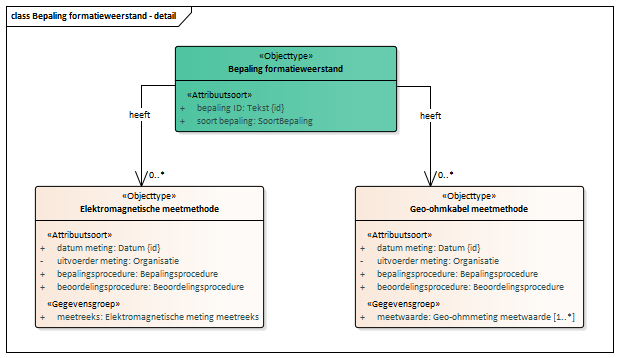
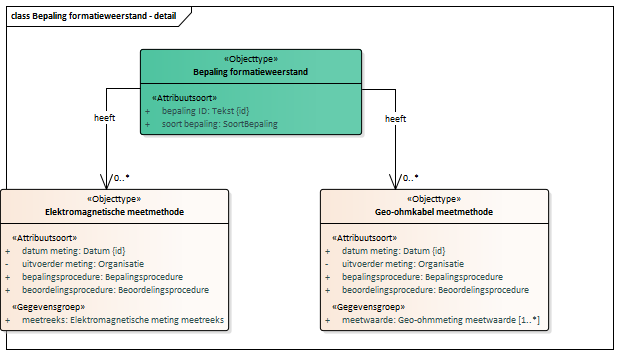
Conceptualmodel-FormatieweerstandonderzoekFRDconceptueel-0.92-3-20210125-20210804-093837

diff --git a/data/FRD-cat.msword.html b/data/FRD-cat.msword.html
@@ -15,7 +15,7 @@
    <body>
       <p>Conceptual model/Formatieweerstand onderzoek (FRD) conceptueel/20210125</p>
       <p>Imvertor: 1.64.2</p>
-      <p>Model release: Conceptualmodel-FormatieweerstandonderzoekFRDconceptueel-0.92-3-20210125-20210527-145838</p>
+      <p>Model release: Conceptualmodel-FormatieweerstandonderzoekFRDconceptueel-0.92-3-20210125-20210804-093837</p>
       <hr>
       <section>
          <h1>Artikel 1 Definitie van registratieobject, entiteiten en attributen</h1>
@@ -434,7 +434,7 @@
                            </tr>
                         </tbody>
                      </table>
-                     </section><a class="anchor" id="detail_d34696e2112"></a><section id="detail_d34696e2112">
+                     </section><a class="anchor" id="detail_d38132e2112"></a><section id="detail_d38132e2112">
                      <h4>  registratiegeschiedenis</h4>
                      <table style="width: 100%;">
                         <colgroup style="width: 30%;"></colgroup>
@@ -1174,8 +1174,6 @@
                      </section>
                </section><a class="anchor" id="graph_EAID_F22A1965_7877_4d12_8285_EA3DA4CB5238"></a><a class="anchor" id="global_class_Model_Grondwatermonitoringnet"></a><section id="global_class_Model_Grondwatermonitoringnet">
                   <h3>   Grondwatermonitoringnet</h3>
-                  <div class="imageinfo "><img src="Images/EAID_35CC2729_4E55_4e03_B78A_D1D89328DE59.png" usemap="#imagemap-EAID_35CC2729_4E55_4e03_B78A_D1D89328DE59" alt="Diagram "><map name="imagemap-EAID_35CC2729_4E55_4e03_B78A_D1D89328DE59"><area shape="rect" alt="Grondwatermonitoringnet" coords="35,46,195,136" href="#graph_EAID_F22A1965_7877_4d12_8285_EA3DA4CB5238"></map><p><b></b></p>
-                  </div>
                   <table style="width: 100%;">
                      <colgroup style="width: 30%;"></colgroup>
                      <colgroup style="width: 70%;"></colgroup>
@@ -1247,8 +1245,6 @@
                      </section>
                </section><a class="anchor" id="graph_EAID_1B716A2C_DC08_4613_9F45_D71488A09E08"></a><a class="anchor" id="global_class_Model_GMWMonitoringbuis"></a><section id="global_class_Model_GMWMonitoringbuis">
                   <h3>   GMW-Monitoringbuis</h3>
-                  <div class="imageinfo "><img src="Images/EAID_1F06A053_05DF_4450_8FA9_BE6E16FC0EEB.png" usemap="#imagemap-EAID_1F06A053_05DF_4450_8FA9_BE6E16FC0EEB" alt="Diagram "><map name="imagemap-EAID_1F06A053_05DF_4450_8FA9_BE6E16FC0EEB"><area shape="rect" alt="GMW-Monitoringbuis" coords="35,46,181,136" href="#graph_EAID_1B716A2C_DC08_4613_9F45_D71488A09E08"></map><p><b></b></p>
-                  </div>
                   <table style="width: 100%;">
                      <colgroup style="width: 30%;"></colgroup>
                      <colgroup style="width: 70%;"></colgroup>
@@ -1360,7 +1356,7 @@
                      </section>
                </section><a class="anchor" id="graph_EAID_5F41557D_52D0_47ab_80F1_95DA32B6E627"></a><a class="anchor" id="global_class_Model_Bepalingformatieweerstand"></a><section id="global_class_Model_Bepalingformatieweerstand">
                   <h3>   Bepaling formatieweerstand</h3>
-                  <div class="imageinfo "><img src="Images/EAID_D43054A5_5649_44c1_88F3_A13D6778913E.png" usemap="#imagemap-EAID_D43054A5_5649_44c1_88F3_A13D6778913E" alt="Diagram "><map name="imagemap-EAID_D43054A5_5649_44c1_88F3_A13D6778913E"><area shape="rect" alt="Geo-ohmkabel meetmethode" coords="355,186,584,328" href="#graph_EAID_A60EAD51_0CA6_4820_8C8B_9C2C6DF62D79"><area shape="rect" alt="Elektromagnetische meetmethode" coords="35,186,264,328" href="#graph_EAID_01BA1718_0CA4_4f8d_B072_22583AA9ABF6"><area shape="rect" alt="Bepaling formatieweerstand" coords="175,46,397,132" href="#graph_EAID_5F41557D_52D0_47ab_80F1_95DA32B6E627"></map><p><b></b></p>
+                  <div class="imageinfo "><img src="Images/EAID_D43054A5_5649_44c1_88F3_A13D6778913E.png" usemap="#imagemap-EAID_D43054A5_5649_44c1_88F3_A13D6778913E" alt="Diagram "><map name="imagemap-EAID_D43054A5_5649_44c1_88F3_A13D6778913E"><area shape="rect" alt="Geo-ohmkabel meetmethode" coords="320,189,549,331" href="#graph_EAID_A60EAD51_0CA6_4820_8C8B_9C2C6DF62D79"><area shape="rect" alt="Elektromagnetische meetmethode" coords="0,189,229,331" href="#graph_EAID_01BA1718_0CA4_4f8d_B072_22583AA9ABF6"><area shape="rect" alt="Bepaling formatieweerstand" coords="140,49,362,135" href="#graph_EAID_5F41557D_52D0_47ab_80F1_95DA32B6E627"></map><p><b></b></p>
                   </div>
                   <table style="width: 100%;">
                      <colgroup style="width: 30%;"></colgroup>
@@ -1773,7 +1769,7 @@
                            </tr>
                         </tbody>
                      </table>
-                     </section><a class="anchor" id="detail_d34696e6813"></a><section id="detail_d34696e6813">
+                     </section><a class="anchor" id="detail_d38132e6813"></a><section id="detail_d38132e6813">
                      <h4>  meetreeks</h4>
                      <table style="width: 100%;">
                         <colgroup style="width: 30%;"></colgroup>
@@ -2389,8 +2385,6 @@
                      </section>
                </section><a class="anchor" id="graph_EAID_011990F7_6D1C_4330_B755_51026DABDD83"></a><a class="anchor" id="global_class_Model_Elektromagnetischemetingrecord"></a><section id="global_class_Model_Elektromagnetischemetingrecord">
                   <h3>   Elektromagnetische meting record</h3>
-                  <div class="imageinfo "><img src="Images/EAID_3DF72B87_FAA5_434d_A954_D00029F2E277.png" usemap="#imagemap-EAID_3DF72B87_FAA5_434d_A954_D00029F2E277" alt="Diagram "><map name="imagemap-EAID_3DF72B87_FAA5_434d_A954_D00029F2E277"><area shape="rect" alt="Elektromagnetische meting record" coords="35,46,239,148" href="#graph_EAID_011990F7_6D1C_4330_B755_51026DABDD83"></map><p><b></b></p>
-                  </div>
                   <table style="width: 100%;">
                      <colgroup style="width: 30%;"></colgroup>
                      <colgroup style="width: 70%;"></colgroup>
@@ -2598,7 +2592,7 @@
                               </td>
                         </tr>
                      </tbody>
-                  </table><a class="anchor" id="detail_d34696e9691"></a><section id="detail_d34696e9691">
+                  </table><a class="anchor" id="detail_d38132e9691"></a><section id="detail_d38132e9691">
                      <h4>  meetrecord</h4>
                      <table style="width: 100%;">
                         <colgroup style="width: 30%;"></colgroup>
@@ -2860,7 +2854,7 @@
                            </tr>
                         </tbody>
                      </table>
-                     </section><a class="anchor" id="detail_d34696e10777"></a><section id="detail_d34696e10777">
+                     </section><a class="anchor" id="detail_d38132e10777"></a><section id="detail_d38132e10777">
                      <h4>  meetwaarde</h4>
                      <table style="width: 100%;">
                         <colgroup style="width: 30%;"></colgroup>
@@ -3135,7 +3129,7 @@
                            </tr>
                         </tbody>
                      </table>
-                     </section><a class="anchor" id="detail_d34696e11673"></a><section id="detail_d34696e11673">
+                     </section><a class="anchor" id="detail_d38132e11673"></a><section id="detail_d38132e11673">
                      <h4>  meetpaar</h4>
                      <table style="width: 100%;">
                         <colgroup style="width: 30%;"></colgroup>
@@ -3175,7 +3169,7 @@
                            </tr>
                         </tbody>
                      </table>
-                  </section><a class="anchor" id="detail_d34696e11887"></a><section id="detail_d34696e11887">
+                  </section><a class="anchor" id="detail_d38132e11887"></a><section id="detail_d38132e11887">
                      <h4>  stroompaar</h4>
                      <table style="width: 100%;">
                         <colgroup style="width: 30%;"></colgroup>
@@ -3244,7 +3238,7 @@
                               </td>
                         </tr>
                      </tbody>
-                  </table><a class="anchor" id="detail_d34696e12259"></a><section id="detail_d34696e12259">
+                  </table><a class="anchor" id="detail_d38132e12259"></a><section id="detail_d38132e12259">
                      <h4>  elektrode1</h4>
                      <table style="width: 100%;">
                         <colgroup style="width: 30%;"></colgroup>
@@ -3284,7 +3278,7 @@
                            </tr>
                         </tbody>
                      </table>
-                  </section><a class="anchor" id="detail_d34696e12474"></a><section id="detail_d34696e12474">
+                  </section><a class="anchor" id="detail_d38132e12474"></a><section id="detail_d38132e12474">
                      <h4>  elektrode2</h4>
                      <table style="width: 100%;">
                         <colgroup style="width: 30%;"></colgroup>
@@ -3327,8 +3321,6 @@
                   </section>
                </section><a class="anchor" id="graph_EAID_C045DE56_83F7_4ff4_A46D_269994044500"></a><a class="anchor" id="global_class_Model_GMWelektrodeverwijzing"></a><section id="global_class_Model_GMWelektrodeverwijzing">
                   <h3>   GMW-elektrodeverwijzing</h3>
-                  <div class="imageinfo "><img src="Images/EAID_256930BF_3062_4e18_ACF2_5ACBC25A161C.png" usemap="#imagemap-EAID_256930BF_3062_4e18_ACF2_5ACBC25A161C" alt="Diagram "><map name="imagemap-EAID_256930BF_3062_4e18_ACF2_5ACBC25A161C"><area shape="rect" alt="Elektrodepaar" coords="35,46,230,136" href="#graph_EAID_328960A4_D17E_466f_B986_E3A06D0CD08C"></map><p><b></b></p>
-                  </div>
                   <table style="width: 100%;">
                      <colgroup style="width: 30%;"></colgroup>
                      <colgroup style="width: 70%;"></colgroup>
@@ -3761,7 +3753,7 @@
                            </tr>
                         </tbody>
                      </table>
-                     </section><a class="anchor" id="detail_d34696e14201"></a><section id="detail_d34696e14201">
+                     </section><a class="anchor" id="detail_d38132e14201"></a><section id="detail_d38132e14201">
                      <h4>  schijnbare formatieweerstand meetreeks</h4>
                      <table style="width: 100%;">
                         <colgroup style="width: 30%;"></colgroup>
@@ -3815,7 +3807,7 @@
                               </td>
                         </tr>
                      </tbody>
-                  </table><a class="anchor" id="detail_d34696e14491"></a><section id="detail_d34696e14491">
+                  </table><a class="anchor" id="detail_d38132e14491"></a><section id="detail_d38132e14491">
                      <h4>  meetrecord</h4>
                      <table style="width: 100%;">
                         <colgroup style="width: 30%;"></colgroup>

diff --git a/data/FRD-cat.respec.html b/data/FRD-cat.respec.html
@@ -410,7 +410,7 @@
                   </tr>
                </tbody>
             </table>
-            </section><a class="anchor" id="detail_d34696e2112"></a><section id="detail_d34696e2112">
+            </section><a class="anchor" id="detail_d38132e2112"></a><section id="detail_d38132e2112">
             <h4>  registratiegeschiedenis</h4>
             <table style="width: 100%;">
                <colgroup style="width: 30%;"></colgroup>
@@ -1150,8 +1150,6 @@
             </section>
       </section><a class="anchor" id="graph_EAID_F22A1965_7877_4d12_8285_EA3DA4CB5238"></a><a class="anchor" id="global_class_Model_Grondwatermonitoringnet"></a><section id="global_class_Model_Grondwatermonitoringnet">
          <h3>   Grondwatermonitoringnet</h3>
-         <div class="imageinfo "><img src="data/Images/EAID_35CC2729_4E55_4e03_B78A_D1D89328DE59.png" usemap="#imagemap-EAID_35CC2729_4E55_4e03_B78A_D1D89328DE59" alt="Diagram "><map name="imagemap-EAID_35CC2729_4E55_4e03_B78A_D1D89328DE59"><area shape="rect" alt="Grondwatermonitoringnet" coords="35,46,195,136" href="#graph_EAID_F22A1965_7877_4d12_8285_EA3DA4CB5238"></map><p><b></b></p>
-         </div>
          <table style="width: 100%;">
             <colgroup style="width: 30%;"></colgroup>
             <colgroup style="width: 70%;"></colgroup>
@@ -1223,8 +1221,6 @@
             </section>
       </section><a class="anchor" id="graph_EAID_1B716A2C_DC08_4613_9F45_D71488A09E08"></a><a class="anchor" id="global_class_Model_GMWMonitoringbuis"></a><section id="global_class_Model_GMWMonitoringbuis">
          <h3>   GMW-Monitoringbuis</h3>
-         <div class="imageinfo "><img src="data/Images/EAID_1F06A053_05DF_4450_8FA9_BE6E16FC0EEB.png" usemap="#imagemap-EAID_1F06A053_05DF_4450_8FA9_BE6E16FC0EEB" alt="Diagram "><map name="imagemap-EAID_1F06A053_05DF_4450_8FA9_BE6E16FC0EEB"><area shape="rect" alt="GMW-Monitoringbuis" coords="35,46,181,136" href="#graph_EAID_1B716A2C_DC08_4613_9F45_D71488A09E08"></map><p><b></b></p>
-         </div>
          <table style="width: 100%;">
             <colgroup style="width: 30%;"></colgroup>
             <colgroup style="width: 70%;"></colgroup>
@@ -1336,7 +1332,7 @@
             </section>
       </section><a class="anchor" id="graph_EAID_5F41557D_52D0_47ab_80F1_95DA32B6E627"></a><a class="anchor" id="global_class_Model_Bepalingformatieweerstand"></a><section id="global_class_Model_Bepalingformatieweerstand">
          <h3>   Bepaling formatieweerstand</h3>
-         <div class="imageinfo "><img src="data/Images/EAID_D43054A5_5649_44c1_88F3_A13D6778913E.png" usemap="#imagemap-EAID_D43054A5_5649_44c1_88F3_A13D6778913E" alt="Diagram "><map name="imagemap-EAID_D43054A5_5649_44c1_88F3_A13D6778913E"><area shape="rect" alt="Geo-ohmkabel meetmethode" coords="355,186,584,328" href="#graph_EAID_A60EAD51_0CA6_4820_8C8B_9C2C6DF62D79"><area shape="rect" alt="Elektromagnetische meetmethode" coords="35,186,264,328" href="#graph_EAID_01BA1718_0CA4_4f8d_B072_22583AA9ABF6"><area shape="rect" alt="Bepaling formatieweerstand" coords="175,46,397,132" href="#graph_EAID_5F41557D_52D0_47ab_80F1_95DA32B6E627"></map><p><b></b></p>
+         <div class="imageinfo "><img src="data/Images/EAID_D43054A5_5649_44c1_88F3_A13D6778913E.png" usemap="#imagemap-EAID_D43054A5_5649_44c1_88F3_A13D6778913E" alt="Diagram "><map name="imagemap-EAID_D43054A5_5649_44c1_88F3_A13D6778913E"><area shape="rect" alt="Geo-ohmkabel meetmethode" coords="320,189,549,331" href="#graph_EAID_A60EAD51_0CA6_4820_8C8B_9C2C6DF62D79"><area shape="rect" alt="Elektromagnetische meetmethode" coords="0,189,229,331" href="#graph_EAID_01BA1718_0CA4_4f8d_B072_22583AA9ABF6"><area shape="rect" alt="Bepaling formatieweerstand" coords="140,49,362,135" href="#graph_EAID_5F41557D_52D0_47ab_80F1_95DA32B6E627"></map><p><b></b></p>
          </div>
          <table style="width: 100%;">
             <colgroup style="width: 30%;"></colgroup>
@@ -1749,7 +1745,7 @@
                   </tr>
                </tbody>
             </table>
-            </section><a class="anchor" id="detail_d34696e6813"></a><section id="detail_d34696e6813">
+            </section><a class="anchor" id="detail_d38132e6813"></a><section id="detail_d38132e6813">
             <h4>  meetreeks</h4>
             <table style="width: 100%;">
                <colgroup style="width: 30%;"></colgroup>
@@ -2365,8 +2361,6 @@
             </section>
       </section><a class="anchor" id="graph_EAID_011990F7_6D1C_4330_B755_51026DABDD83"></a><a class="anchor" id="global_class_Model_Elektromagnetischemetingrecord"></a><section id="global_class_Model_Elektromagnetischemetingrecord">
          <h3>   Elektromagnetische meting record</h3>
-         <div class="imageinfo "><img src="data/Images/EAID_3DF72B87_FAA5_434d_A954_D00029F2E277.png" usemap="#imagemap-EAID_3DF72B87_FAA5_434d_A954_D00029F2E277" alt="Diagram "><map name="imagemap-EAID_3DF72B87_FAA5_434d_A954_D00029F2E277"><area shape="rect" alt="Elektromagnetische meting record" coords="35,46,239,148" href="#graph_EAID_011990F7_6D1C_4330_B755_51026DABDD83"></map><p><b></b></p>
-         </div>
          <table style="width: 100%;">
             <colgroup style="width: 30%;"></colgroup>
             <colgroup style="width: 70%;"></colgroup>
@@ -2574,7 +2568,7 @@
                      </td>
                </tr>
             </tbody>
-         </table><a class="anchor" id="detail_d34696e9691"></a><section id="detail_d34696e9691">
+         </table><a class="anchor" id="detail_d38132e9691"></a><section id="detail_d38132e9691">
             <h4>  meetrecord</h4>
             <table style="width: 100%;">
                <colgroup style="width: 30%;"></colgroup>
@@ -2836,7 +2830,7 @@
                   </tr>
                </tbody>
             </table>
-            </section><a class="anchor" id="detail_d34696e10777"></a><section id="detail_d34696e10777">
+            </section><a class="anchor" id="detail_d38132e10777"></a><section id="detail_d38132e10777">
             <h4>  meetwaarde</h4>
             <table style="width: 100%;">
                <colgroup style="width: 30%;"></colgroup>
@@ -3111,7 +3105,7 @@
                   </tr>
                </tbody>
             </table>
-            </section><a class="anchor" id="detail_d34696e11673"></a><section id="detail_d34696e11673">
+            </section><a class="anchor" id="detail_d38132e11673"></a><section id="detail_d38132e11673">
             <h4>  meetpaar</h4>
             <table style="width: 100%;">
                <colgroup style="width: 30%;"></colgroup>
@@ -3151,7 +3145,7 @@
                   </tr>
                </tbody>
             </table>
-         </section><a class="anchor" id="detail_d34696e11887"></a><section id="detail_d34696e11887">
+         </section><a class="anchor" id="detail_d38132e11887"></a><section id="detail_d38132e11887">
             <h4>  stroompaar</h4>
             <table style="width: 100%;">
                <colgroup style="width: 30%;"></colgroup>
@@ -3220,7 +3214,7 @@
                      </td>
                </tr>
             </tbody>
-         </table><a class="anchor" id="detail_d34696e12259"></a><section id="detail_d34696e12259">
+         </table><a class="anchor" id="detail_d38132e12259"></a><section id="detail_d38132e12259">
             <h4>  elektrode1</h4>
             <table style="width: 100%;">
                <colgroup style="width: 30%;"></colgroup>
@@ -3260,7 +3254,7 @@
                   </tr>
                </tbody>
             </table>
-         </section><a class="anchor" id="detail_d34696e12474"></a><section id="detail_d34696e12474">
+         </section><a class="anchor" id="detail_d38132e12474"></a><section id="detail_d38132e12474">
             <h4>  elektrode2</h4>
             <table style="width: 100%;">
                <colgroup style="width: 30%;"></colgroup>
@@ -3303,8 +3297,6 @@
          </section>
       </section><a class="anchor" id="graph_EAID_C045DE56_83F7_4ff4_A46D_269994044500"></a><a class="anchor" id="global_class_Model_GMWelektrodeverwijzing"></a><section id="global_class_Model_GMWelektrodeverwijzing">
          <h3>   GMW-elektrodeverwijzing</h3>
-         <div class="imageinfo "><img src="data/Images/EAID_256930BF_3062_4e18_ACF2_5ACBC25A161C.png" usemap="#imagemap-EAID_256930BF_3062_4e18_ACF2_5ACBC25A161C" alt="Diagram "><map name="imagemap-EAID_256930BF_3062_4e18_ACF2_5ACBC25A161C"><area shape="rect" alt="Elektrodepaar" coords="35,46,230,136" href="#graph_EAID_328960A4_D17E_466f_B986_E3A06D0CD08C"></map><p><b></b></p>
-         </div>
          <table style="width: 100%;">
             <colgroup style="width: 30%;"></colgroup>
             <colgroup style="width: 70%;"></colgroup>
@@ -3737,7 +3729,7 @@
                   </tr>
                </tbody>
             </table>
-            </section><a class="anchor" id="detail_d34696e14201"></a><section id="detail_d34696e14201">
+            </section><a class="anchor" id="detail_d38132e14201"></a><section id="detail_d38132e14201">
             <h4>  schijnbare formatieweerstand meetreeks</h4>
             <table style="width: 100%;">
                <colgroup style="width: 30%;"></colgroup>
@@ -3791,7 +3783,7 @@
                      </td>
                </tr>
             </tbody>
-         </table><a class="anchor" id="detail_d34696e14491"></a><section id="detail_d34696e14491">
+         </table><a class="anchor" id="detail_d38132e14491"></a><section id="detail_d38132e14491">
             <h4>  meetrecord</h4>
             <table style="width: 100%;">
                <colgroup style="width: 30%;"></colgroup>
